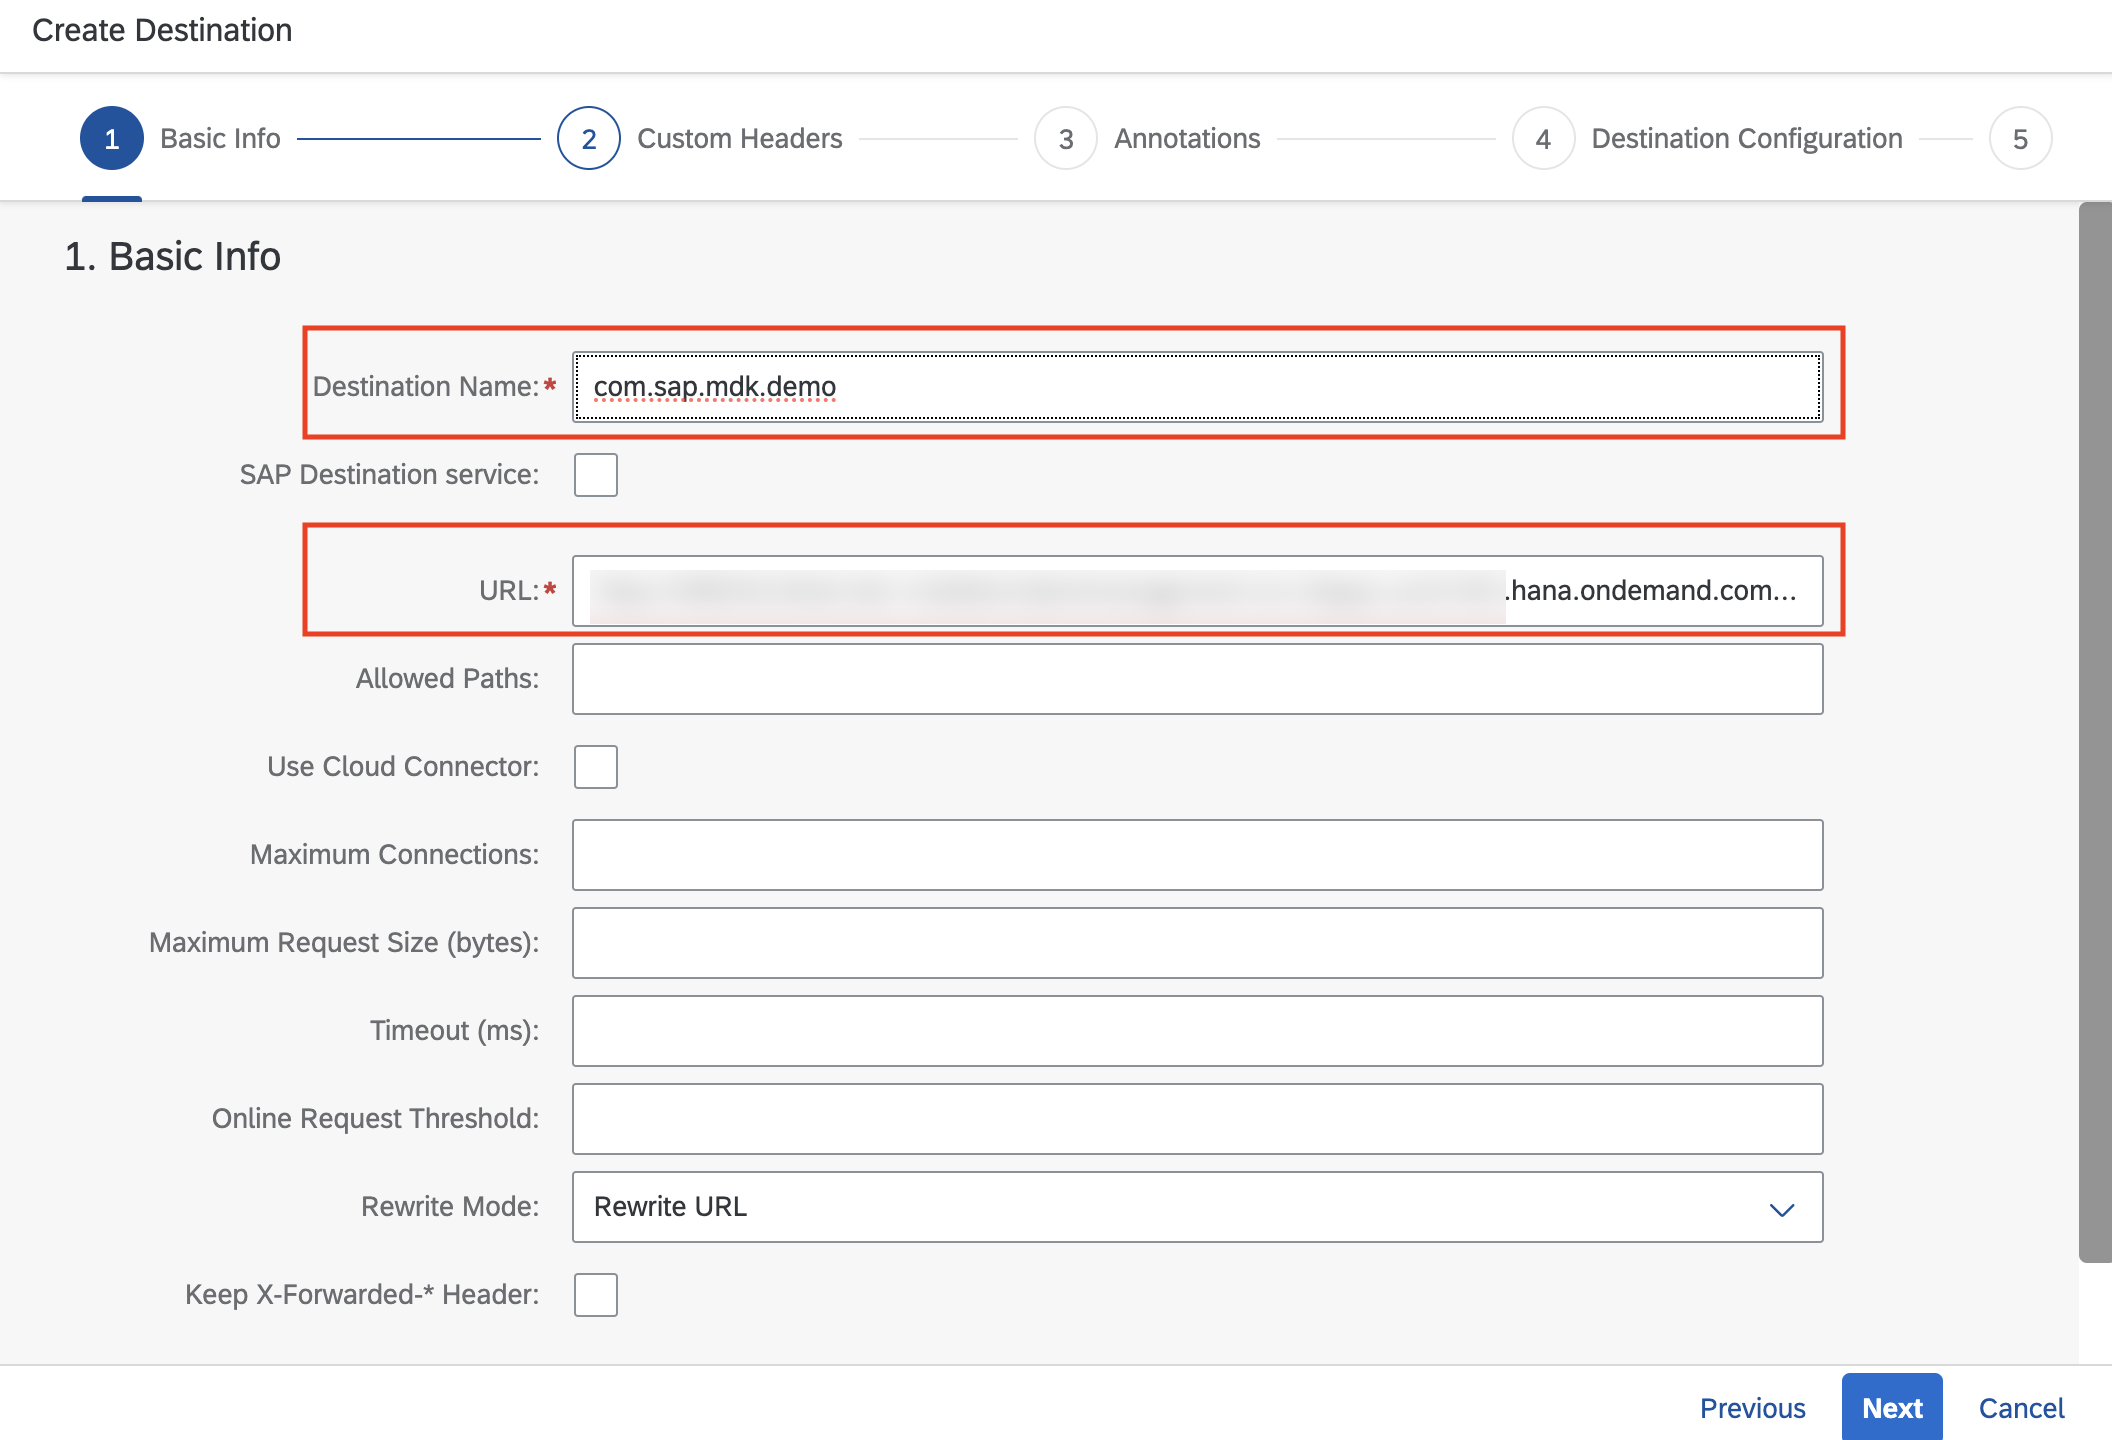
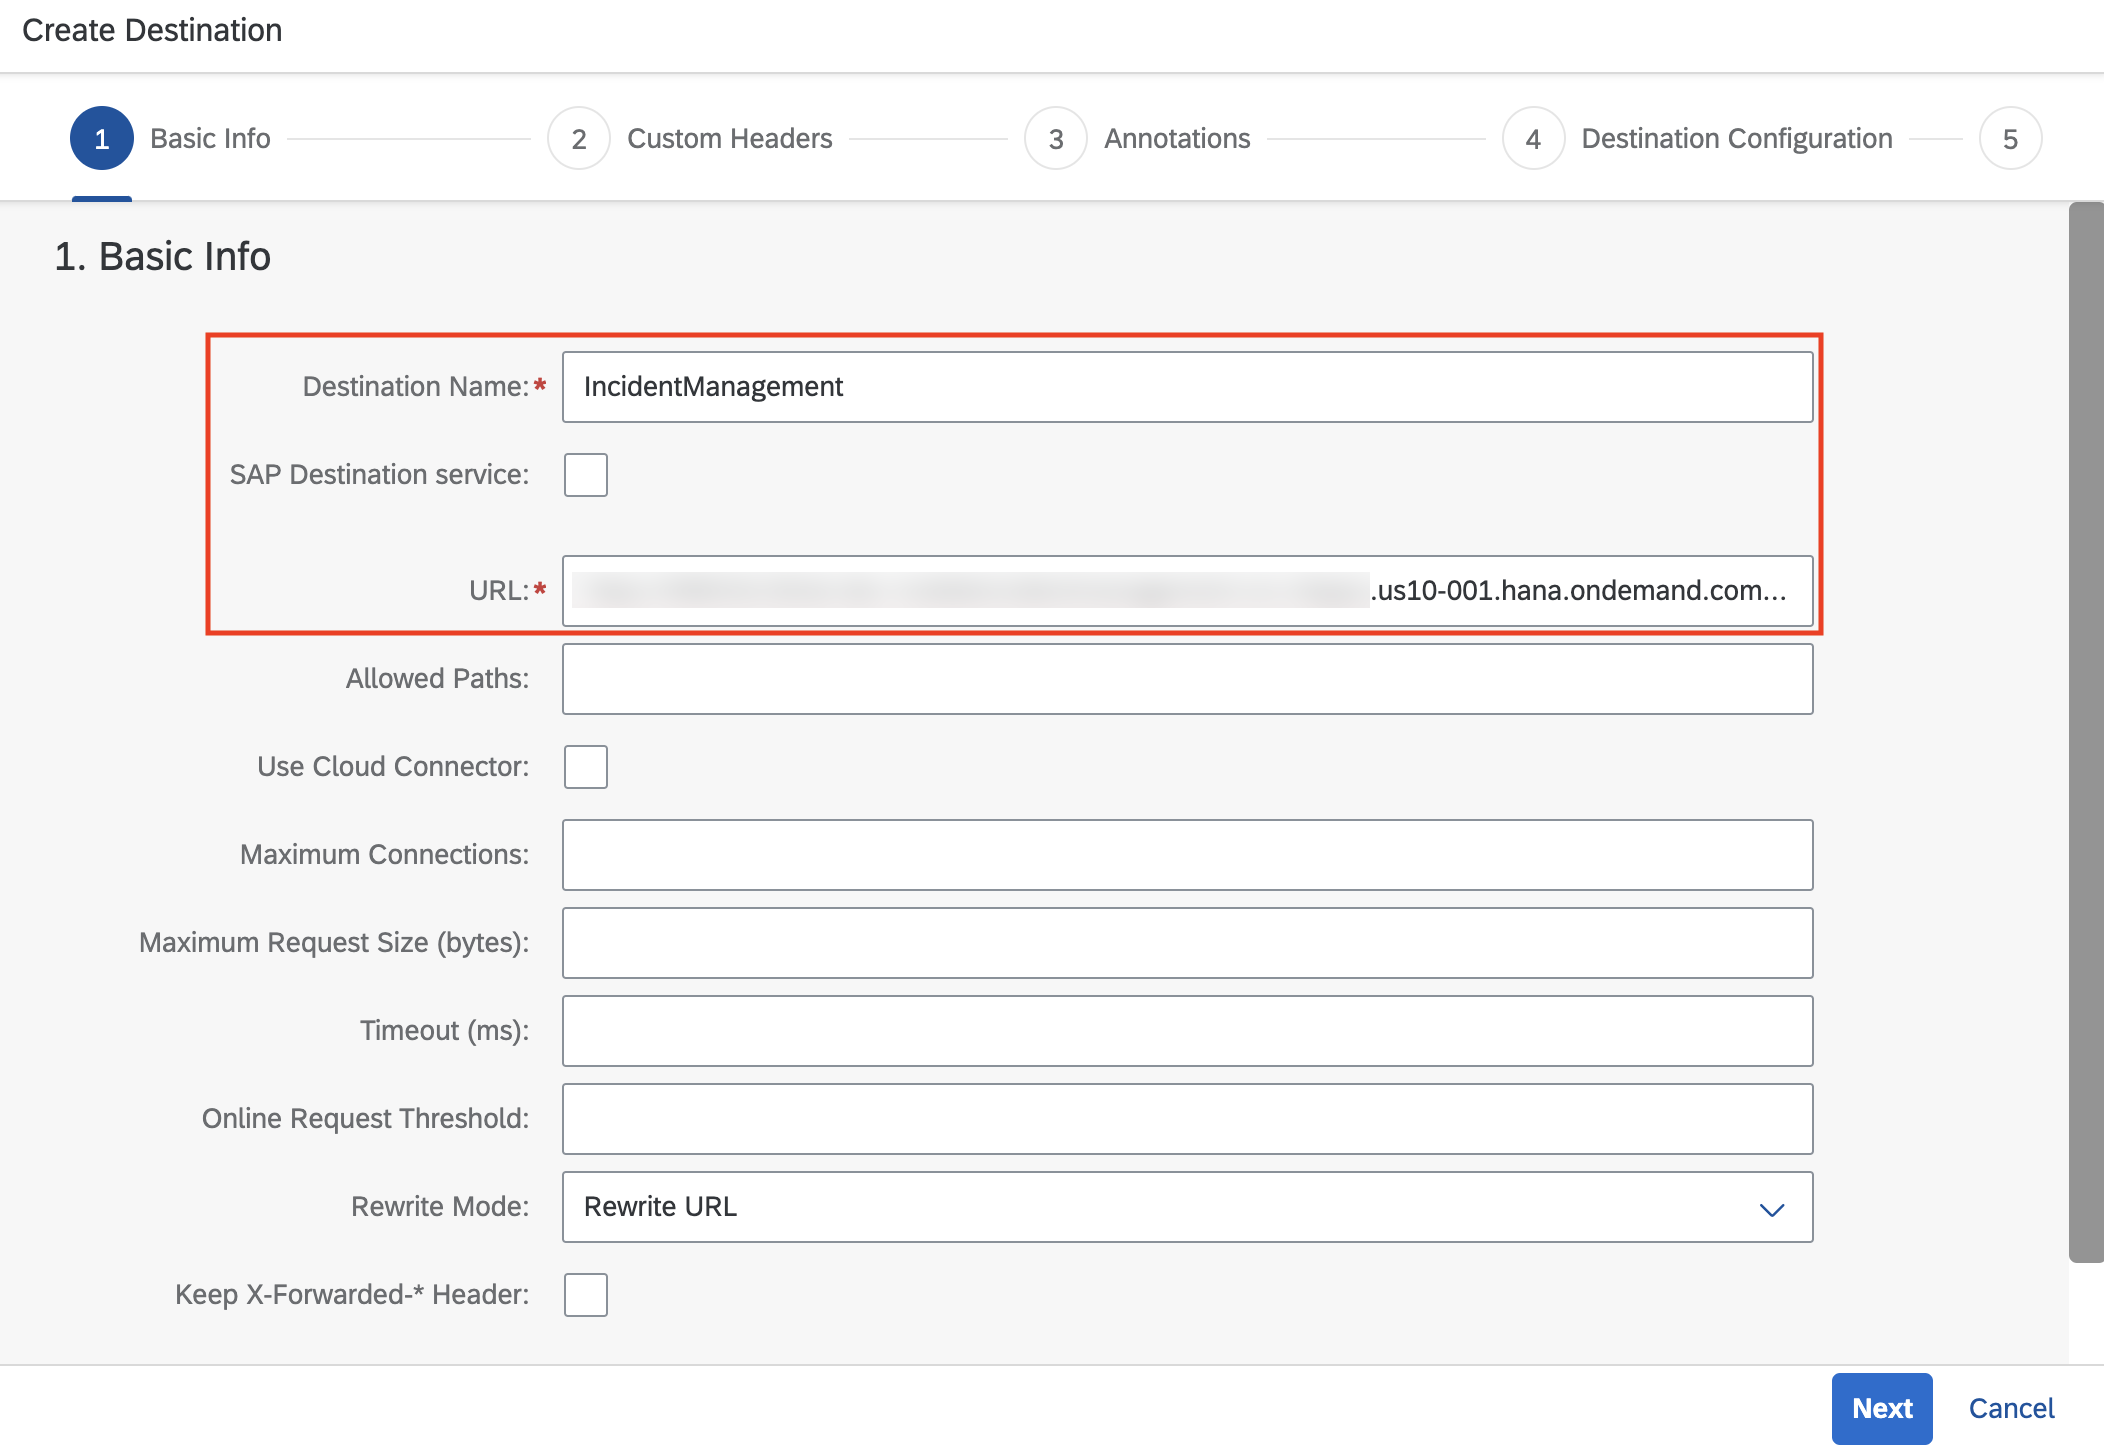
Adjusting MDK App and Incident Management Backend

diff --git a/ex2/README.md b/ex2/README.md
@@ -57,7 +57,7 @@ This exercise will guide you through configuring your back-end using SAP Mobile 
     ![Create Destination](images/img-2-1.png)
 
 3. In the Basic Info step of the Create Destination Wizard, enter the following details and click "Next":
-   - ID: `cap.incident.management`
+   - ID: `IncidentManagement`
    - Name: `<Domain>/service/IncidentManagementMobile`
 
     ![Basic Info Step](images/img-2-3.png)
